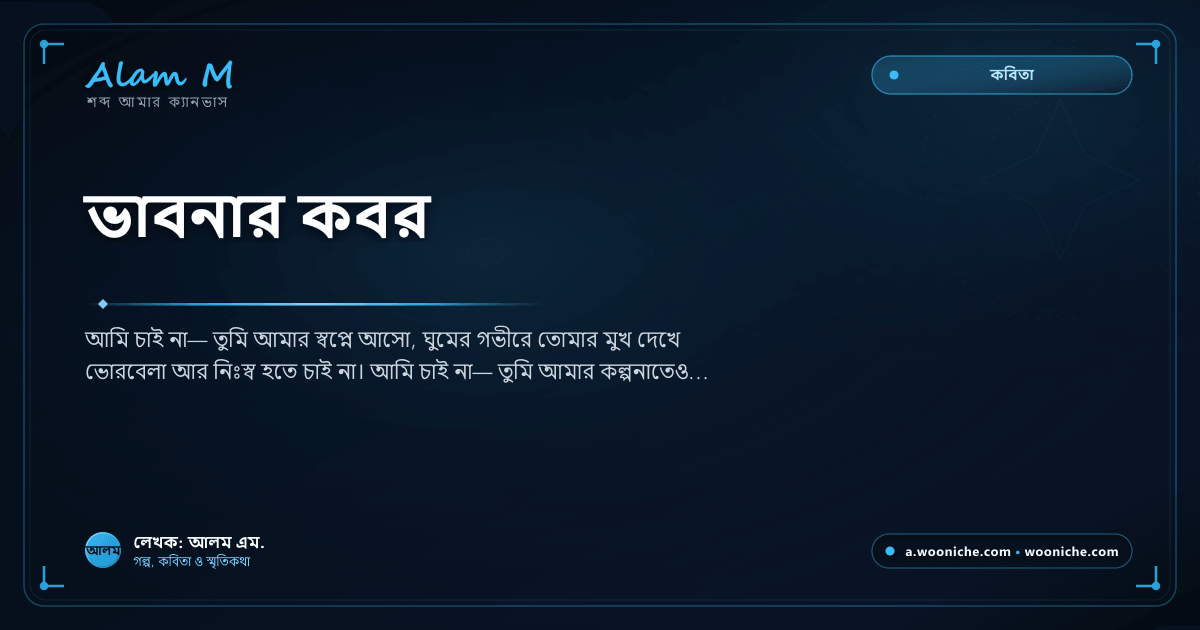
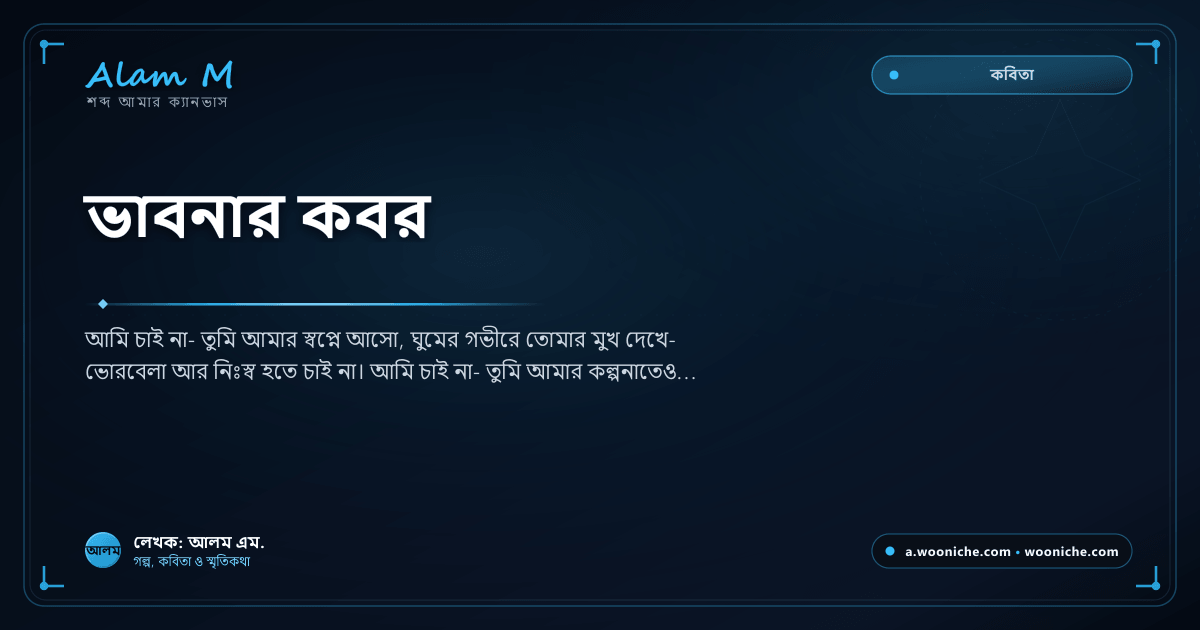
fix(content): replace em-dash with hyphen in 'ভাবনার কবর' poem

Changed region(s): [[0.1542, 0.5127, 0.5858, 0.6032], [0.8325, 0.0905, 0.8633, 0.1206]]

diff --git a/src/integrations/d1/seed-data.ts b/src/integrations/d1/seed-data.ts
@@ -6,9 +6,9 @@ export const INITIAL_SEED_DATA = {
       "slug": "bhabnar-kobor",
       "title_bn": "ভাবনার কবর",
       "title_en": null,
-      "excerpt_bn": "আমি চাই না— তুমি আমার স্বপ্নে আসো, ঘুমের গভীরে তোমার মুখ দেখে ভোরবেলা আর নিঃস্ব হতে চাই না। আমি চাই না— তুমি আমার কল্পনাতেও আসো, কোনো অবসরে তোমাকে নিয়ে গল্প সাজাতে চাই না...",
+      "excerpt_bn": "আমি চাই না- তুমি আমার স্বপ্নে আসো, ঘুমের গভীরে তোমার মুখ দেখে- ভোরবেলা আর নিঃস্ব হতে চাই না। আমি চাই না- তুমি আমার কল্পনাতেও আসো, কোনো অবসরে- তোমাকে নিয়ে গল্প সাজাতে চাই না...",
       "excerpt_en": null,
-      "content_bn": "<p>আমি চাই না—<br>তুমি আমার স্বপ্নে আসো,<br>ঘুমের গভীরে তোমার মুখ দেখে—<br>ভোরবেলা আর নিঃস্ব হতে চাই না।</p>\n<p>আমি চাই না—<br>তুমি আমার কল্পনাতেও আসো,<br>কোনো অবসরে—<br>তোমাকে নিয়ে গল্প সাজাতে চাই না।</p>\n<p>তাই চাই, যখন জেগে থাকি—<br>তখন যেন ভাবনার কবর দিতে পারি,<br>যে স্মৃতিগুলো আমাকে বন্দি করেছে—<br>তাদের শেষ বিদায় জানাতে পারি।</p>\n<p>তোমার নাম লেখা পুরোনো চিঠিগুলো—<br>আর পড়তে চাই না,<br>যে পথে একদিন তোমার সঙ্গে হেঁটেছি—<br>সে পথেও ফিরে তাকাতে চাই না।</p>\n<p>আমি জানি, ভুলে যাওয়া এত সহজ নয়,<br>স্মৃতি কোনো নির্দেশ মানে না,<br>তবু নিজেকে বোঝাতে চাই প্রতিদিন,<br>হারানো তোমাকে ফিরে পেতে না চাই<br>এই জীবনেই তোমাকে ভুলে যেতে চাই<br>শিখে নিতে চাই একা থাকার ব্যাকরণ<br>ভাবনার কবর দিয়ে অবসর চাই।</p>\n<p class=\"poem-date\"><strong>© আলম</strong></p>",
+      "content_bn": "<p>আমি চাই না-<br>তুমি আমার স্বপ্নে আসো,<br>ঘুমের গভীরে তোমার মুখ দেখে-<br>ভোরবেলা আর নিঃস্ব হতে চাই না।</p>\n<p>আমি চাই না-<br>তুমি আমার কল্পনাতেও আসো,<br>কোনো অবসরে-<br>তোমাকে নিয়ে গল্প সাজাতে চাই না।</p>\n<p>তাই চাই, যখন জেগে থাকি-<br>তখন যেন ভাবনার কবর দিতে পারি,<br>যে স্মৃতিগুলো আমাকে বন্দি করেছে-<br>তাদের শেষ বিদায় জানাতে পারি।</p>\n<p>তোমার নাম লেখা পুরোনো চিঠিগুলো-<br>আর পড়তে চাই না,<br>যে পথে একদিন তোমার সঙ্গে হেঁটেছি-<br>সে পথেও ফিরে তাকাতে চাই না।</p>\n<p>আমি জানি, ভুলে যাওয়া এত সহজ নয়,<br>স্মৃতি কোনো নির্দেশ মানে না,<br>তবু নিজেকে বোঝাতে চাই প্রতিদিন,<br>হারানো তোমাকে ফিরে পেতে না চাই<br>এই জীবনেই তোমাকে ভুলে যেতে চাই<br>শিখে নিতে চাই একা থাকার ব্যাকরণ<br>ভাবনার কবর দিয়ে অবসর চাই।</p>\n<p class=\"poem-date\"><strong>© আলম</strong></p>",
       "content_en": null,
       "cover_image_url": null,
       "published": true,

diff --git a/src/lib/staticArticlesMeta.ts b/src/lib/staticArticlesMeta.ts
@@ -5,8 +5,8 @@ export const STATIC_ARTICLES_META = [
     "slug": "bhabnar-kobor",
     "title_bn": "ভাবনার কবর",
     "title_en": "ভাবনার কবর",
-    "excerpt_bn": "আমি চাই না— তুমি আমার স্বপ্নে আসো, ঘুমের গভীরে তোমার মুখ দেখে ভোরবেলা আর নিঃস্ব হতে চাই না। আমি চাই না— তুমি আমার কল্পনাতেও আসো, কোনো অবসরে তোমাকে নিয়ে গল্প সাজাতে চাই না...",
-    "excerpt_en": "আমি চাই না— তুমি আমার স্বপ্নে আসো, ঘুমের গভীরে তোমার মুখ দেখে ভোরবেলা আর নিঃস্ব হতে চাই না। আমি চাই না— তুমি আমার কল্পনাতেও আসো, কোনো অবসরে তোমাকে নিয়ে গল্প সাজাতে চাই না...",
+    "excerpt_bn": "আমি চাই না- তুমি আমার স্বপ্নে আসো, ঘুমের গভীরে তোমার মুখ দেখে- ভোরবেলা আর নিঃস্ব হতে চাই না। আমি চাই না- তুমি আমার কল্পনাতেও আসো, কোনো অবসরে- তোমাকে নিয়ে গল্প সাজাতে চাই না...",
+    "excerpt_en": "আমি চাই না- তুমি আমার স্বপ্নে আসো, ঘুমের গভীরে তোমার মুখ দেখে- ভোরবেলা আর নিঃস্ব হতে চাই না। আমি চাই না- তুমি আমার কল্পনাতেও আসো, কোনো অবসরে- তোমাকে নিয়ে গল্প সাজাতে চাই না...",
     "cover_image_url": "https://a.wooniche.com/og/articles/bhabnar-kobor.png",
     "published_at": "2026-11-05T05:44:00.000Z"
   },
